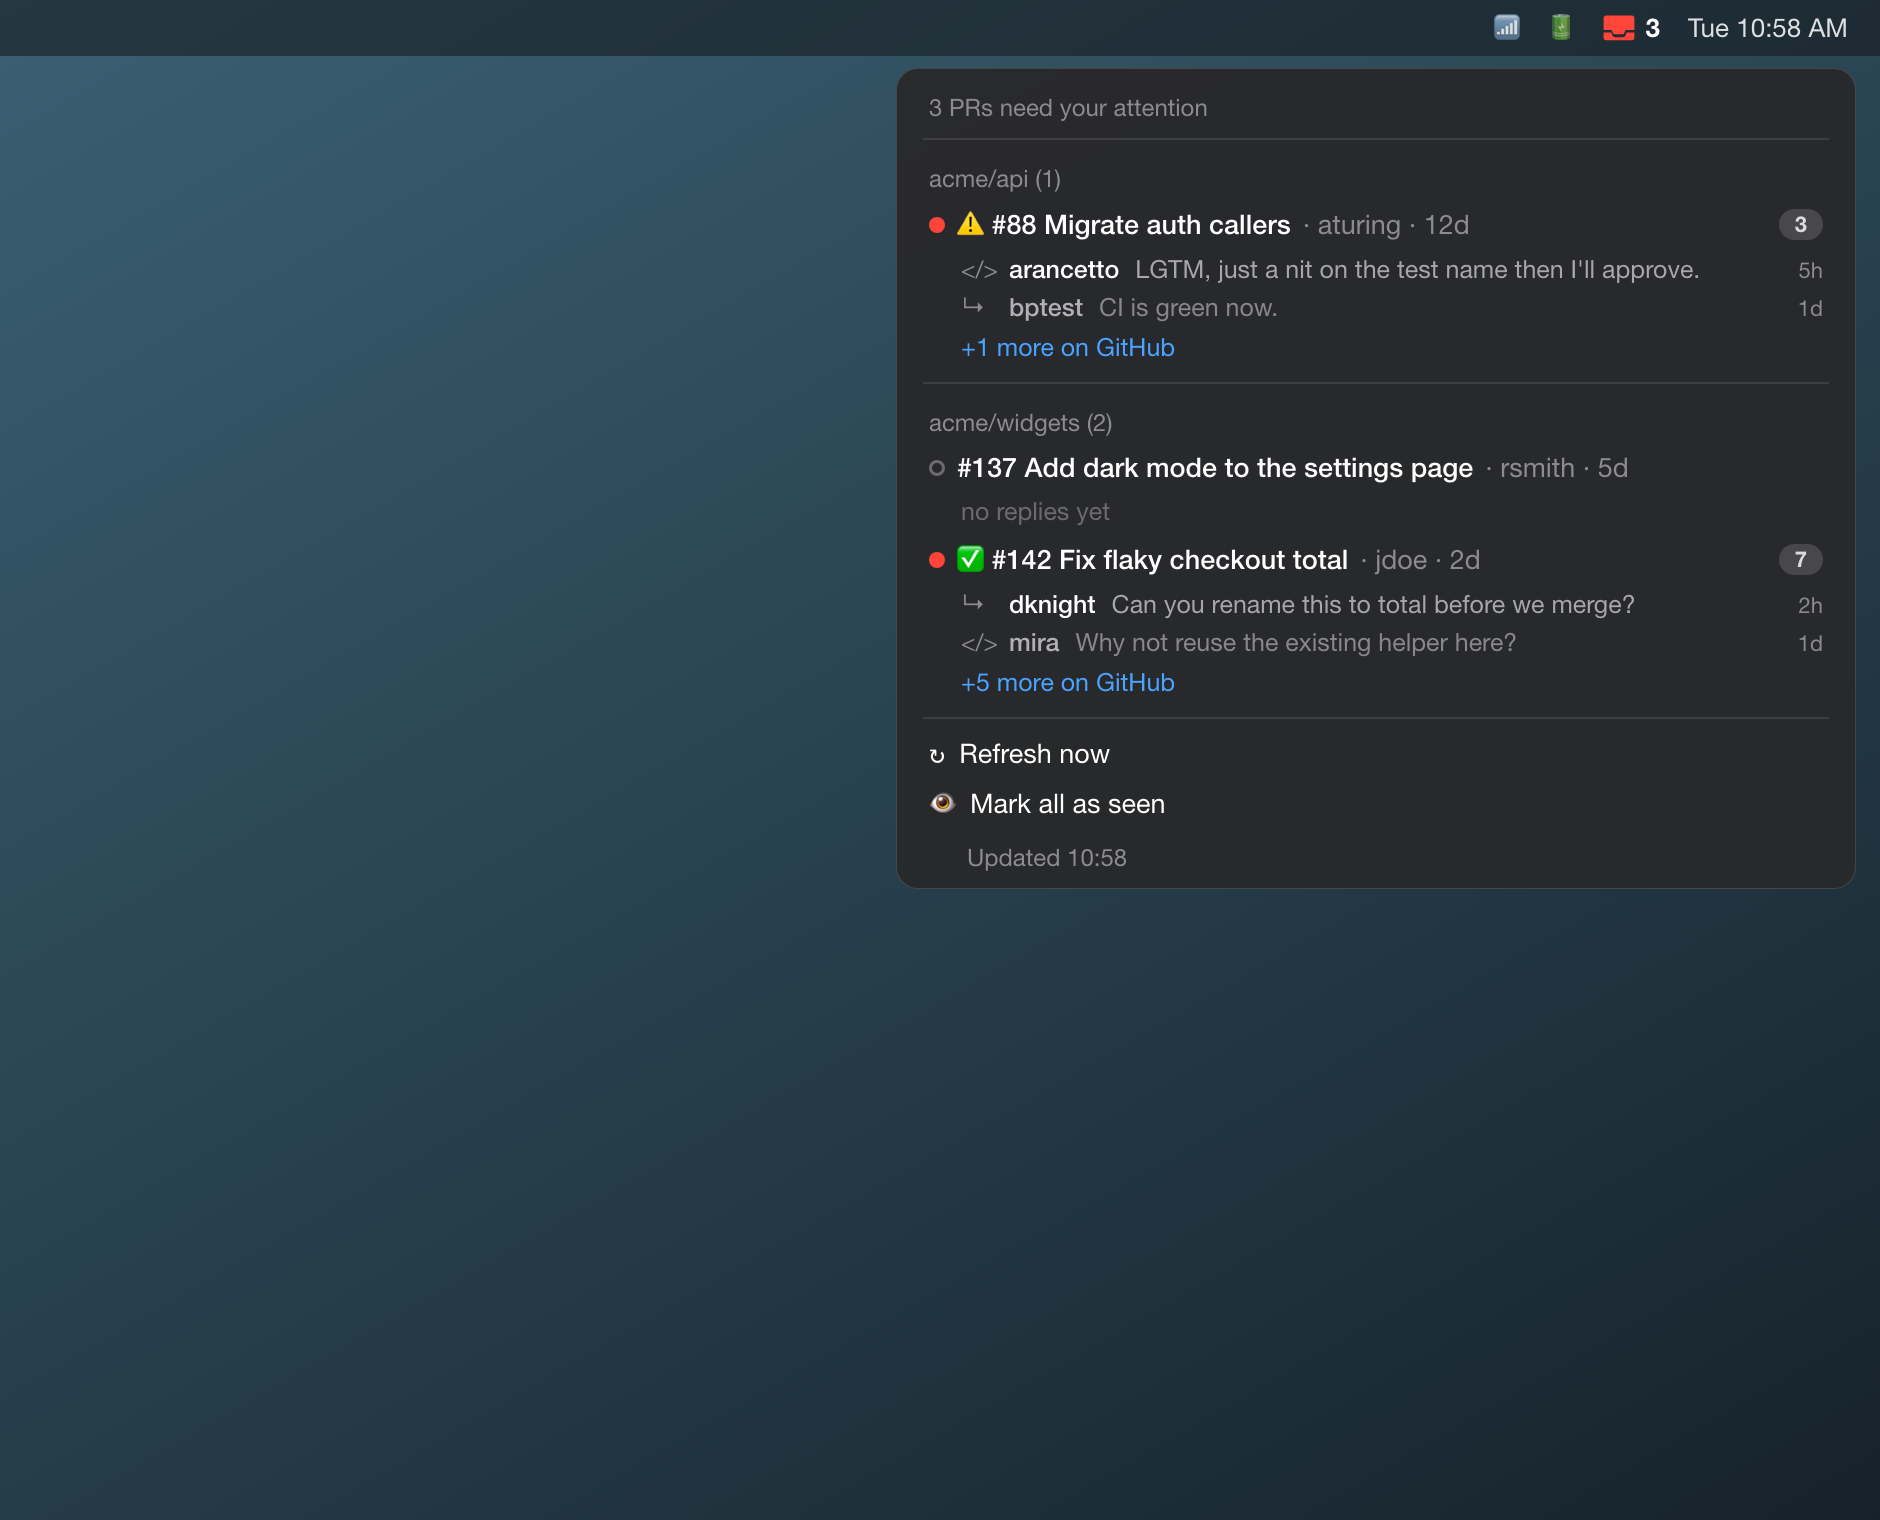
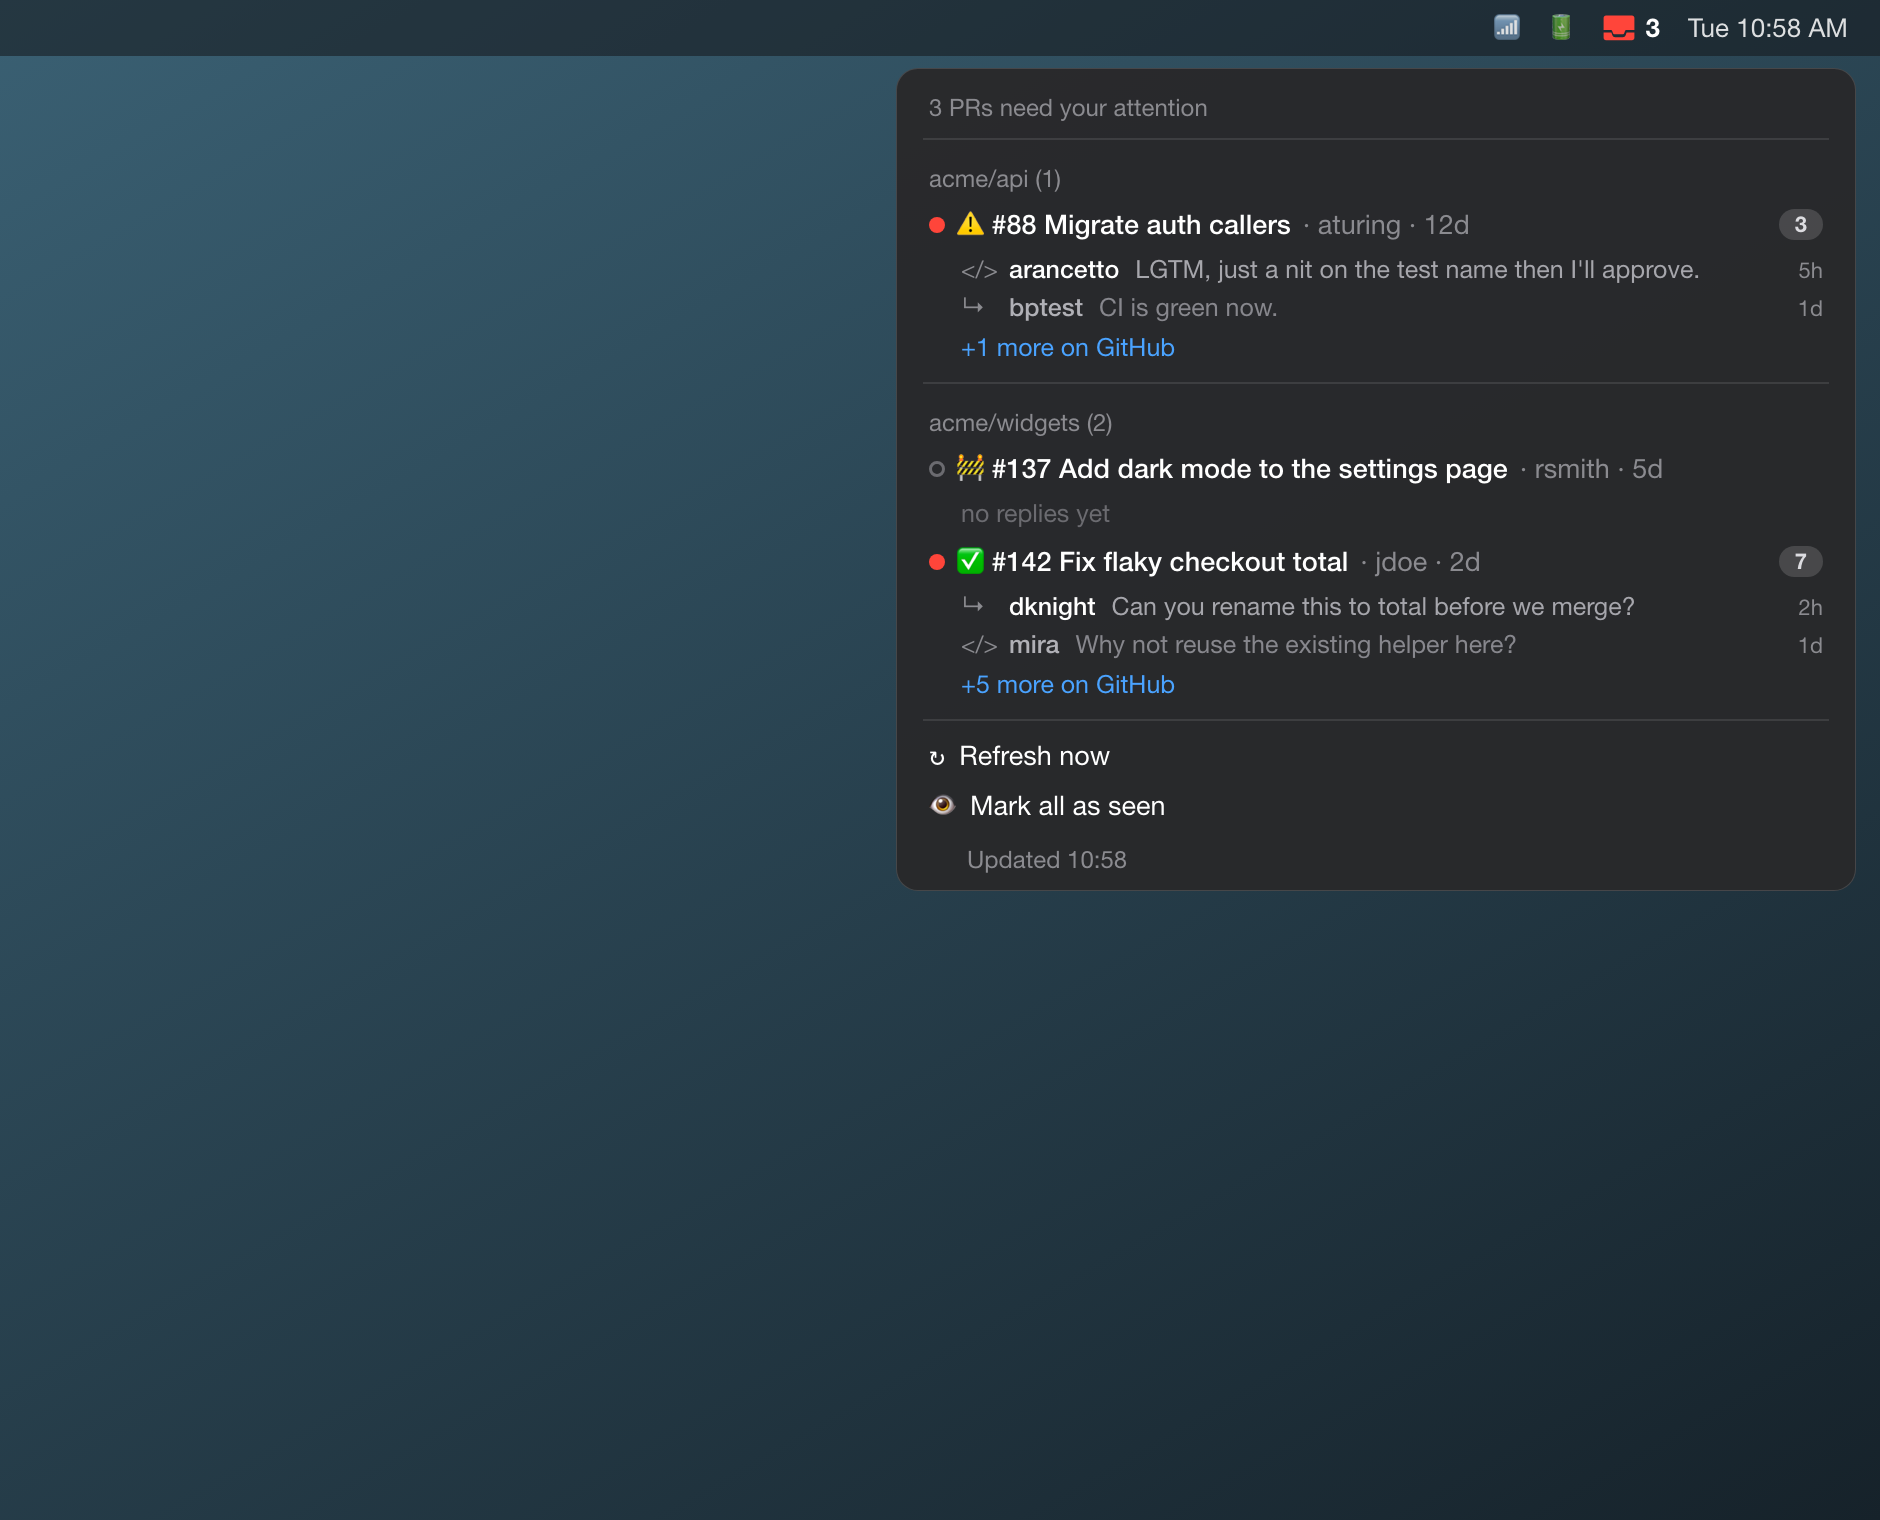
Show a 🚧 glyph for draft PRs on the row
The draft flag was already fetched in fetch_pr_status but unused; render it
as 🚧 alongside ✅ (approved) and ⚠ (conflicts).

diff --git a/swiftbar_plugin.py b/swiftbar_plugin.py
@@ -82,8 +82,9 @@ def demo_data() -> tuple[list[dict], dict[str, str]]:
              "html_url": "https://github.com/acme/api/pull/88#c2",
              "body": "CI is green now."}]},
     ]
-    # #142 approved, #88 has merge conflicts, #137 nothing notable.
+    # #142 approved, #88 has merge conflicts, #137 is a draft.
     prs[0]["status"] = {"approved": True, "conflicts": False}
+    prs[1]["status"] = {"draft": True}
     prs[2]["status"] = {"approved": False, "conflicts": True}
     for pr in prs:
         pr["latest"] = pr["comments"][0] if pr["comments"] else None
@@ -373,6 +374,8 @@ def pr_block(pr: dict, seen: dict[str, str]) -> None:
     # status glyph flags approved (✅) / merge conflicts (⚠).
     status = pr.get("status") or {}
     marks = ""
+    if status.get("draft"):
+        marks += "🚧 "
     if status.get("approved"):
         marks += "✅ "
     if status.get("conflicts"):

diff --git a/README.md b/README.md
@@ -135,8 +135,8 @@ and **Refresh now** to re-fetch on demand.
 Each PR row also previews its recent **comments** — conversation replies and
 inline review comments — so you can see who responded without opening GitHub:
 
-- The PR row shows the author, a **comment-count badge**, and a **status glyph**
-  — ✅ when the PR is approved, ⚠ when it has merge conflicts (both if both).
+- The PR row shows the author, a **comment-count badge**, and **status glyphs**
+  — 🚧 draft, ✅ approved, ⚠ merge conflicts (combined if more than one applies).
 - Up to **2** recent comments appear beneath it; review comments carry a code
   glyph, replies a reply glyph. Click one to jump straight to that comment.
 - **+n more on GitHub** opens the PR's conversation tab; PRs with none show
